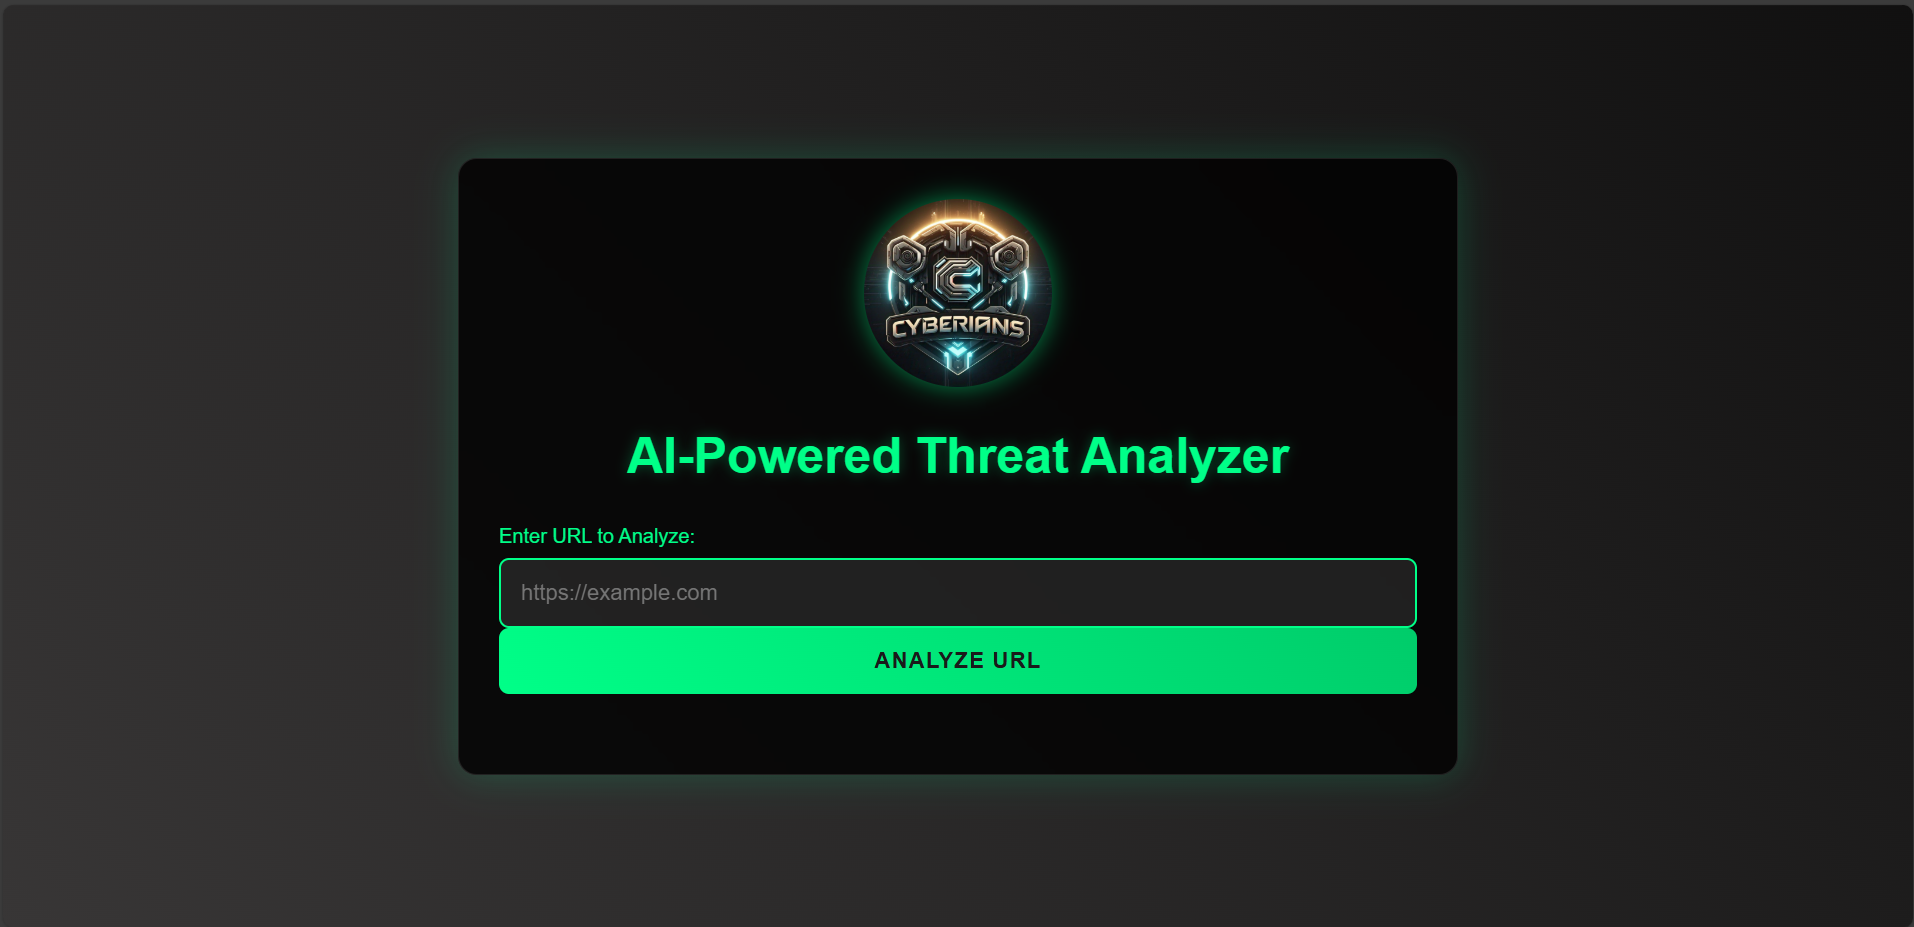
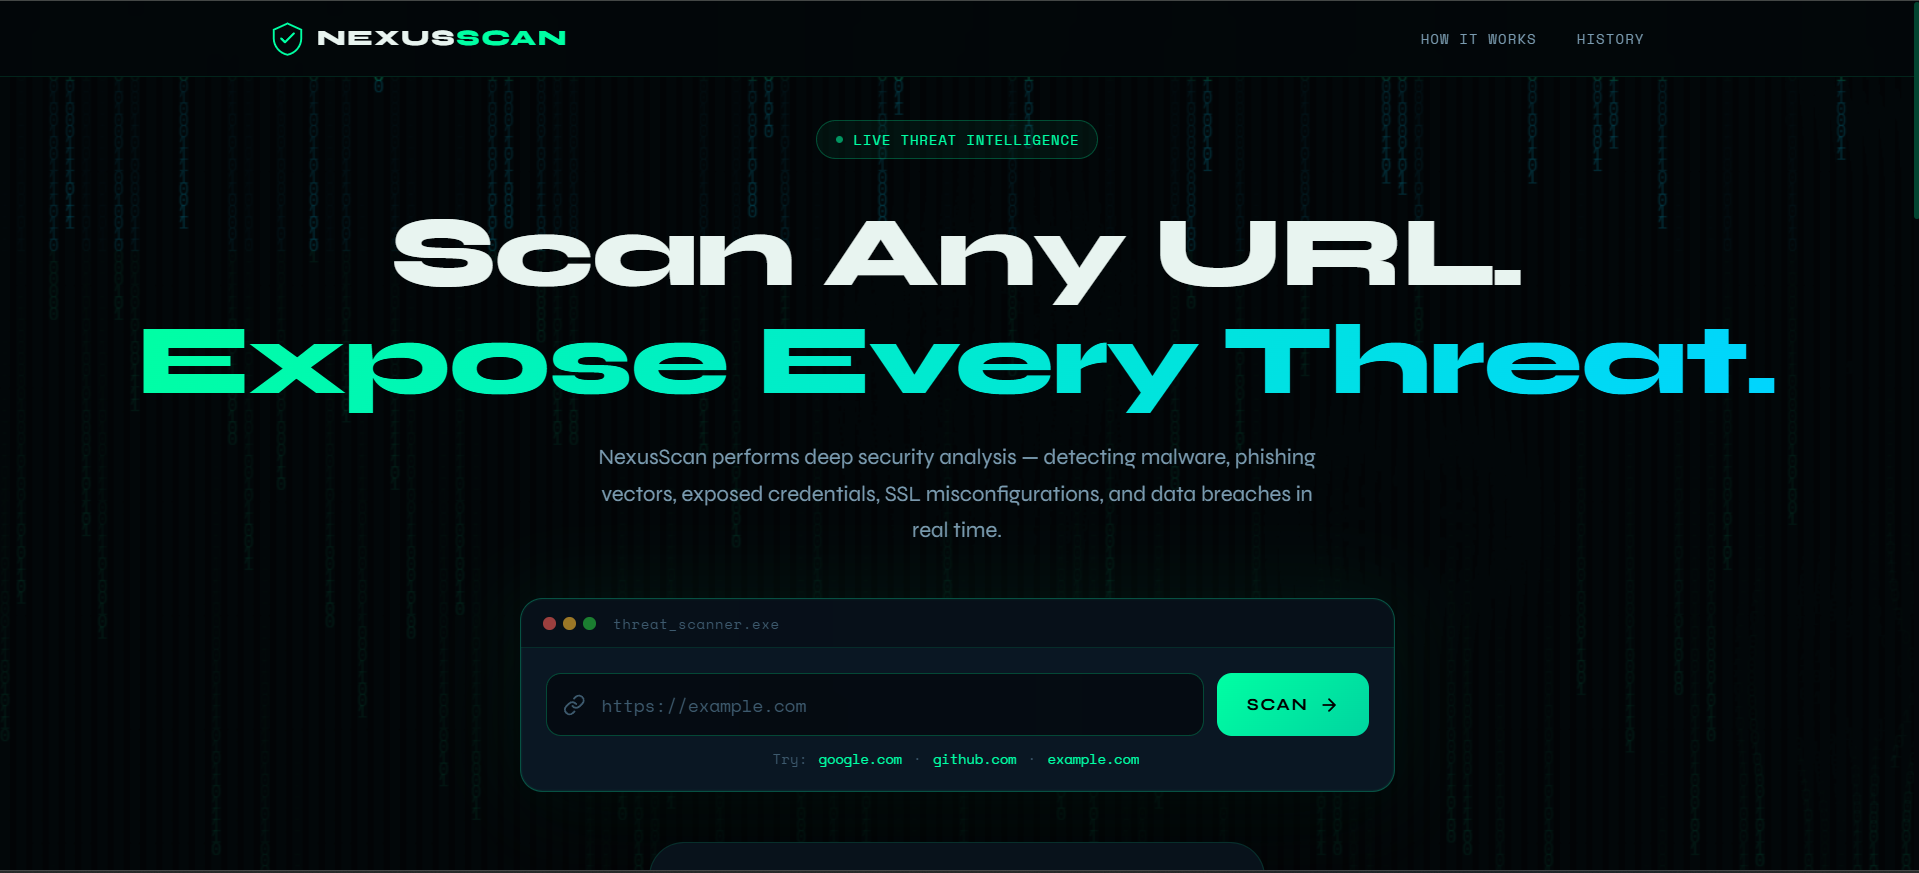
feat: update project details and add new project with images

diff --git a/projects.html b/projects.html
@@ -124,14 +124,14 @@
 const PROJECTS = [
   {
     id: 1,
-    title: 'Local Grocery E-Commerce Platform',
-    desc: 'A full-featured e-commerce solution built for local grocery stores, complete with inventory management, shopping cart, and secure payment processing. Designed to help small businesses transition to online retail while keeping customer data protected.',
-    technologies: ['HTML', 'CSS', 'JavaScript', 'Python', 'Flask', 'SQLite'],
-    filters: ['fullstack', 'python', 'security'],
-    github: 'https://github.com/anubhab7105/PRODIGY_FS_03',
-    live: 'https://freshmart-gamma.vercel.app/',
+    title: 'NeuroMotion',
+    desc: 'An advanced interactive 3D particle system controlled entirely by hand gestures using MediaPipe. Features real-time shape morphing, pinch-based scaling, gesture-triggered transformations, and a futuristic HUD interface with live camera preview.',
+    technologies: ['HTML','CSS','JavaScript','Three.js','MediaPipe Hands'],
+    filters: ['javascript', 'threejs', 'ai'],
+    github: 'https://github.com/anubhab7105/NeuroMotion', 
+    live: '', //  if deployed
     img: 'images/project1.png',
-    security: ['Input validation & sanitization', 'Secure payment processing integration', 'SQL injection prevention (parameterized queries)', 'Data encryption at rest', 'XSS output encoding']
+    security: ['Camera permission handling with user consent','No server-side data storage (privacy-safe)','Real-time processing on client-side only','Secure MediaPipe integration via CDN']
   },
   {
     id: 2,
@@ -145,13 +145,24 @@ const PROJECTS = [
     security: ['Password hashing with bcrypt', 'JWT token authentication', 'XSS prevention (output encoding)', 'CSRF protection tokens', 'Rate limiting on login attempts', 'Secure session management']
   },
   {
+  id: 6,
+  title: 'NeuroMotion',
+  desc: 'An advanced interactive 3D particle system controlled entirely by hand gestures using MediaPipe. Features real-time shape morphing, pinch-based scaling, gesture-triggered transformations, and a futuristic HUD interface with live camera preview.',
+  technologies: ['HTML','CSS','JavaScript','Three.js','MediaPipe Hands'],
+  filters: ['javascript', 'threejs', 'ai'],
+  github: 'https://github.com/anubhab7105/NeuroMotion', 
+  live: '', //  if deployed
+  img: 'images/project6.png',
+  security: ['Camera permission handling with user consent','No server-side data storage (privacy-safe)','Real-time processing on client-side only','Secure MediaPipe integration via CDN']
+  },
+  {
     id: 3,
-    title: 'Cyber Threat Analyzer',
+    title: 'NEXUSSCAN',
     desc: 'A real-time threat intelligence tool that scans URLs for potential cyber threats. Built with a privacy-first approach — no user data is retained after each session. ',
     technologies: ['HTML', 'CSS', 'JavaScript', 'REST APIs',  'Python'],
     filters: ['security', 'javascript', 'python'],
-    github: 'https://github.com/anubhab7105/AI-Powered-Cyber-Threat-Analyze',
-    live: 'https://cyber-threat-analyze.vercel.app/',
+    github: 'https://github.com/anubhab7105/NEXUSSCAN',
+    live: 'https://nexusscan.vercel.app/',
     img: 'images/project3.png',
     security: ['Secure API communication (HTTPS/TLS)', 'Input sanitization for URL validation', 'Data validation before processing', 'Privacy-focused — zero data retention', 'CORS implementation for API security']
   },
@@ -176,6 +187,17 @@ const PROJECTS = [
     live: 'https://anubhab7105.github.io/HealthMetricsDashboard/',
     img: 'images/project5.png',
     security: ['Data anonymization for demo data', 'Secure handling of input metrics', 'Client-side input validation', 'CORS configuration']
+  },
+  {
+    id: 6,
+    title: 'Local Grocery E-Commerce Platform',
+    desc: 'A full-featured e-commerce solution built for local grocery stores, complete with inventory management, shopping cart, and secure payment processing. Designed to help small businesses transition to online retail while keeping customer data protected.',
+    technologies: ['HTML', 'CSS', 'JavaScript', 'Python', 'Flask', 'SQLite'],
+    filters: ['fullstack', 'python', 'security'],
+    github: 'https://github.com/anubhab7105/PRODIGY_FS_03',
+    live: 'https://freshmart-gamma.vercel.app/',
+    img: 'images/project6.png',
+    security: ['Input validation & sanitization', 'Secure payment processing integration', 'SQL injection prevention (parameterized queries)', 'Data encryption at rest', 'XSS output encoding']
   }
 ];
 